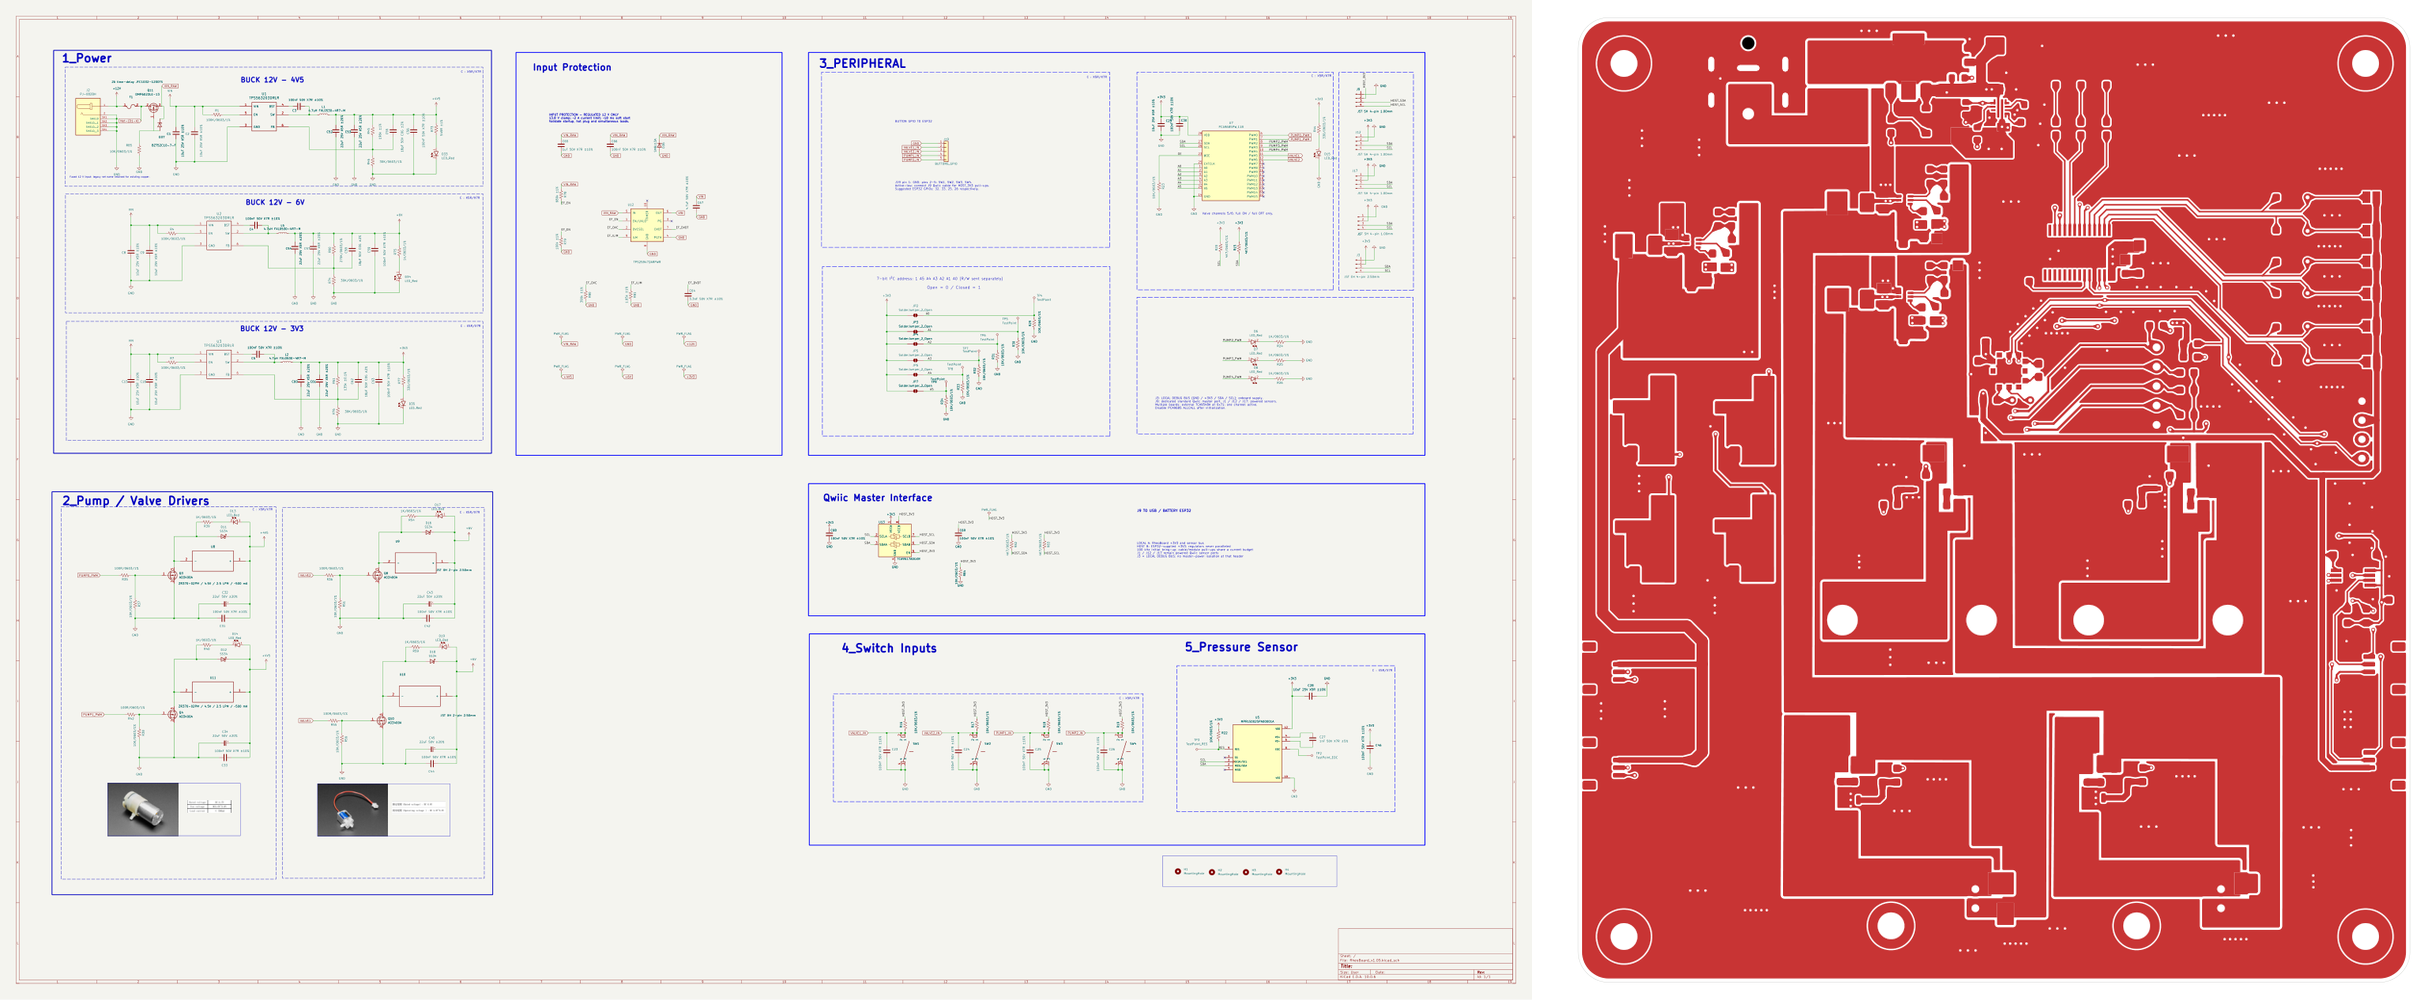
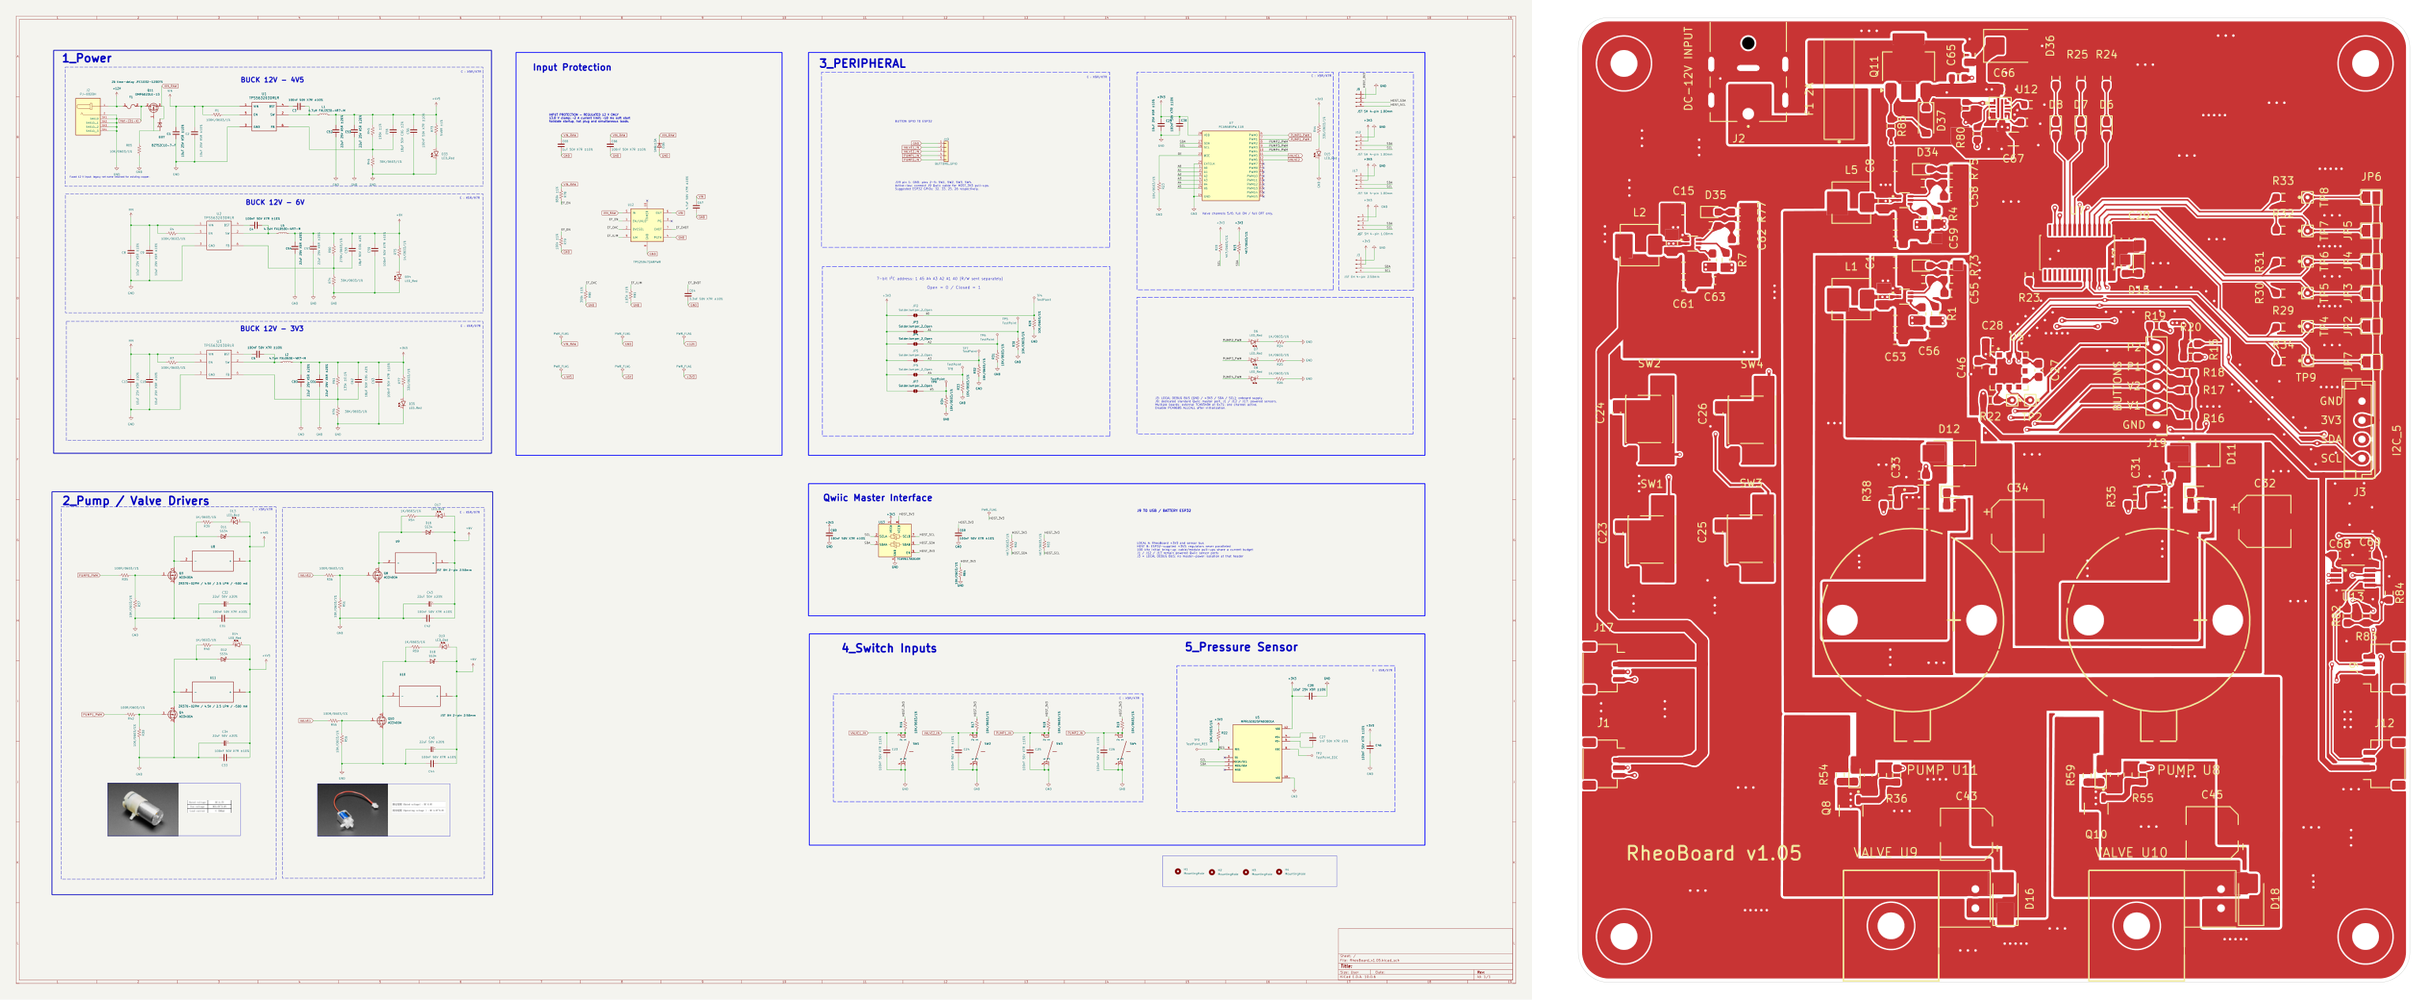
Update images and documentation for RheoBoard v1.05, replacing schematic image reference and refreshing image descriptions in README files.

diff --git a/docs/img/README.md b/docs/img/README.md
@@ -1,3 +1,3 @@
 # Images
 
-Photos and figures for the public pages. Component photos support the [Parts to buy](https://github.com/The-Hybrid-Atelier/RheoBoard/wiki/Parts-to-buy) wiki page, and the source notes for these files are kept with the wiki images. Part folders are `air-pump-4699/`, `air-valve-4663/`, `attiny1616-seesaw/`, `battery-prt-26059/`, `esp32-thing-plus/`, `l298n/`, `power-adapter-alt-1202/`, `qwiic-button/`, `qwiic-micropressure/`, `silicone-tube-4661/`, `qwiic-cable/`, `micro-usb-cable/`, `ftllb220-6005/`, `gl45-bottle/`, and `teaser/`. `panel/` and `portable/` hold the panel and portable figures (`rheopipette.jpg`, `thing_plus_tray.png`, `micropressure_tray.png`, and `battery_tray.png`), and `home-versions.png` is the home figure. The fourth panel of that figure is the current RheoPipette photo. `hybrid-atelier-logo.png` is The Hybrid Atelier mark after the author line on the repository README. `rep-sensing-method.jpg` is the sensing-method diagram, `rep-how-a-rep-looks.jpg` is the chart on How a REP looks, `rep-pressure-trace.jpg` is an earlier pressure trace, `rep-bench.jpg` is the bench photo, `rep-sensing-and-bench.jpg` is an older side-by-side pair; the wiki shows the diagram and the bench photo as two pictures, and `rep-phase-schematic.jpg` is the phase schematic. The certification marks in this folder are `oshwa-certification-mark-US002865-wide.svg`, `oshwa-certification-mark-US002865-stacked.svg`, and `oshwa-license-facts.svg`. Vendor photos stay under their owners' terms.
+Photos and figures for the public pages. Component photos support the [Parts to buy](https://github.com/The-Hybrid-Atelier/RheoBoard/wiki/Parts-to-buy) wiki page, and the source notes for these files are kept with the wiki images. Part folders are `air-pump-4699/`, `air-valve-4663/`, `attiny1616-seesaw/`, `battery-prt-26059/`, `esp32-thing-plus/`, `l298n/`, `power-adapter-alt-1202/`, `qwiic-button/`, `qwiic-micropressure/`, `silicone-tube-4661/`, `qwiic-cable/`, `micro-usb-cable/`, `ftllb220-6005/`, `gl45-bottle/`, and `teaser/`. `panel/` and `portable/` hold the panel and portable figures (`rheopipette.jpg`, `thing_plus_tray.png`, `micropressure_tray.png`, and `battery_tray.png`), and `home-versions.png` is the home figure. The third panel is the current v1.05 board. The fourth panel of that figure is the current RheoPipette photo. `hybrid-atelier-logo.png` is The Hybrid Atelier mark after the author line on the repository README. `rep-sensing-method.jpg` is the sensing-method diagram, `rep-how-a-rep-looks.jpg` is the chart on How a REP looks, `rep-pressure-trace.jpg` is an earlier pressure trace, `rep-bench.jpg` is the bench photo, `rep-sensing-and-bench.jpg` is an older side-by-side pair; the wiki shows the diagram and the bench photo as two pictures, and `rep-phase-schematic.jpg` is the phase schematic. The certification marks in this folder are `oshwa-certification-mark-US002865-wide.svg`, `oshwa-certification-mark-US002865-stacked.svg`, and `oshwa-license-facts.svg`. Vendor photos stay under their owners' terms.

diff --git a/docs/build-options.md b/docs/build-options.md
@@ -5,7 +5,7 @@ The three ways to build are on the [Build options](https://github.com/The-Hybrid
 Pictures from this repository used with that page:
 
 - [`diy-annotated.jpg`](img/panel/diy-annotated.jpg)
-- [`pcb-schematic-and-v1-board.png`](../RheoBoard_PCB/images/pcb-schematic-and-v1-board.png)
+- [`pcb-v105-schematic-and-board.png`](../RheoBoard_PCB/images/pcb-v105-schematic-and-board.png)
 - [`rheopipette.jpg`](../BuildYourOwn/RheoPipette/rheopipette.jpg)
 
 Board files are in [`README.md`](../RheoBoard_PCB/README.md).
